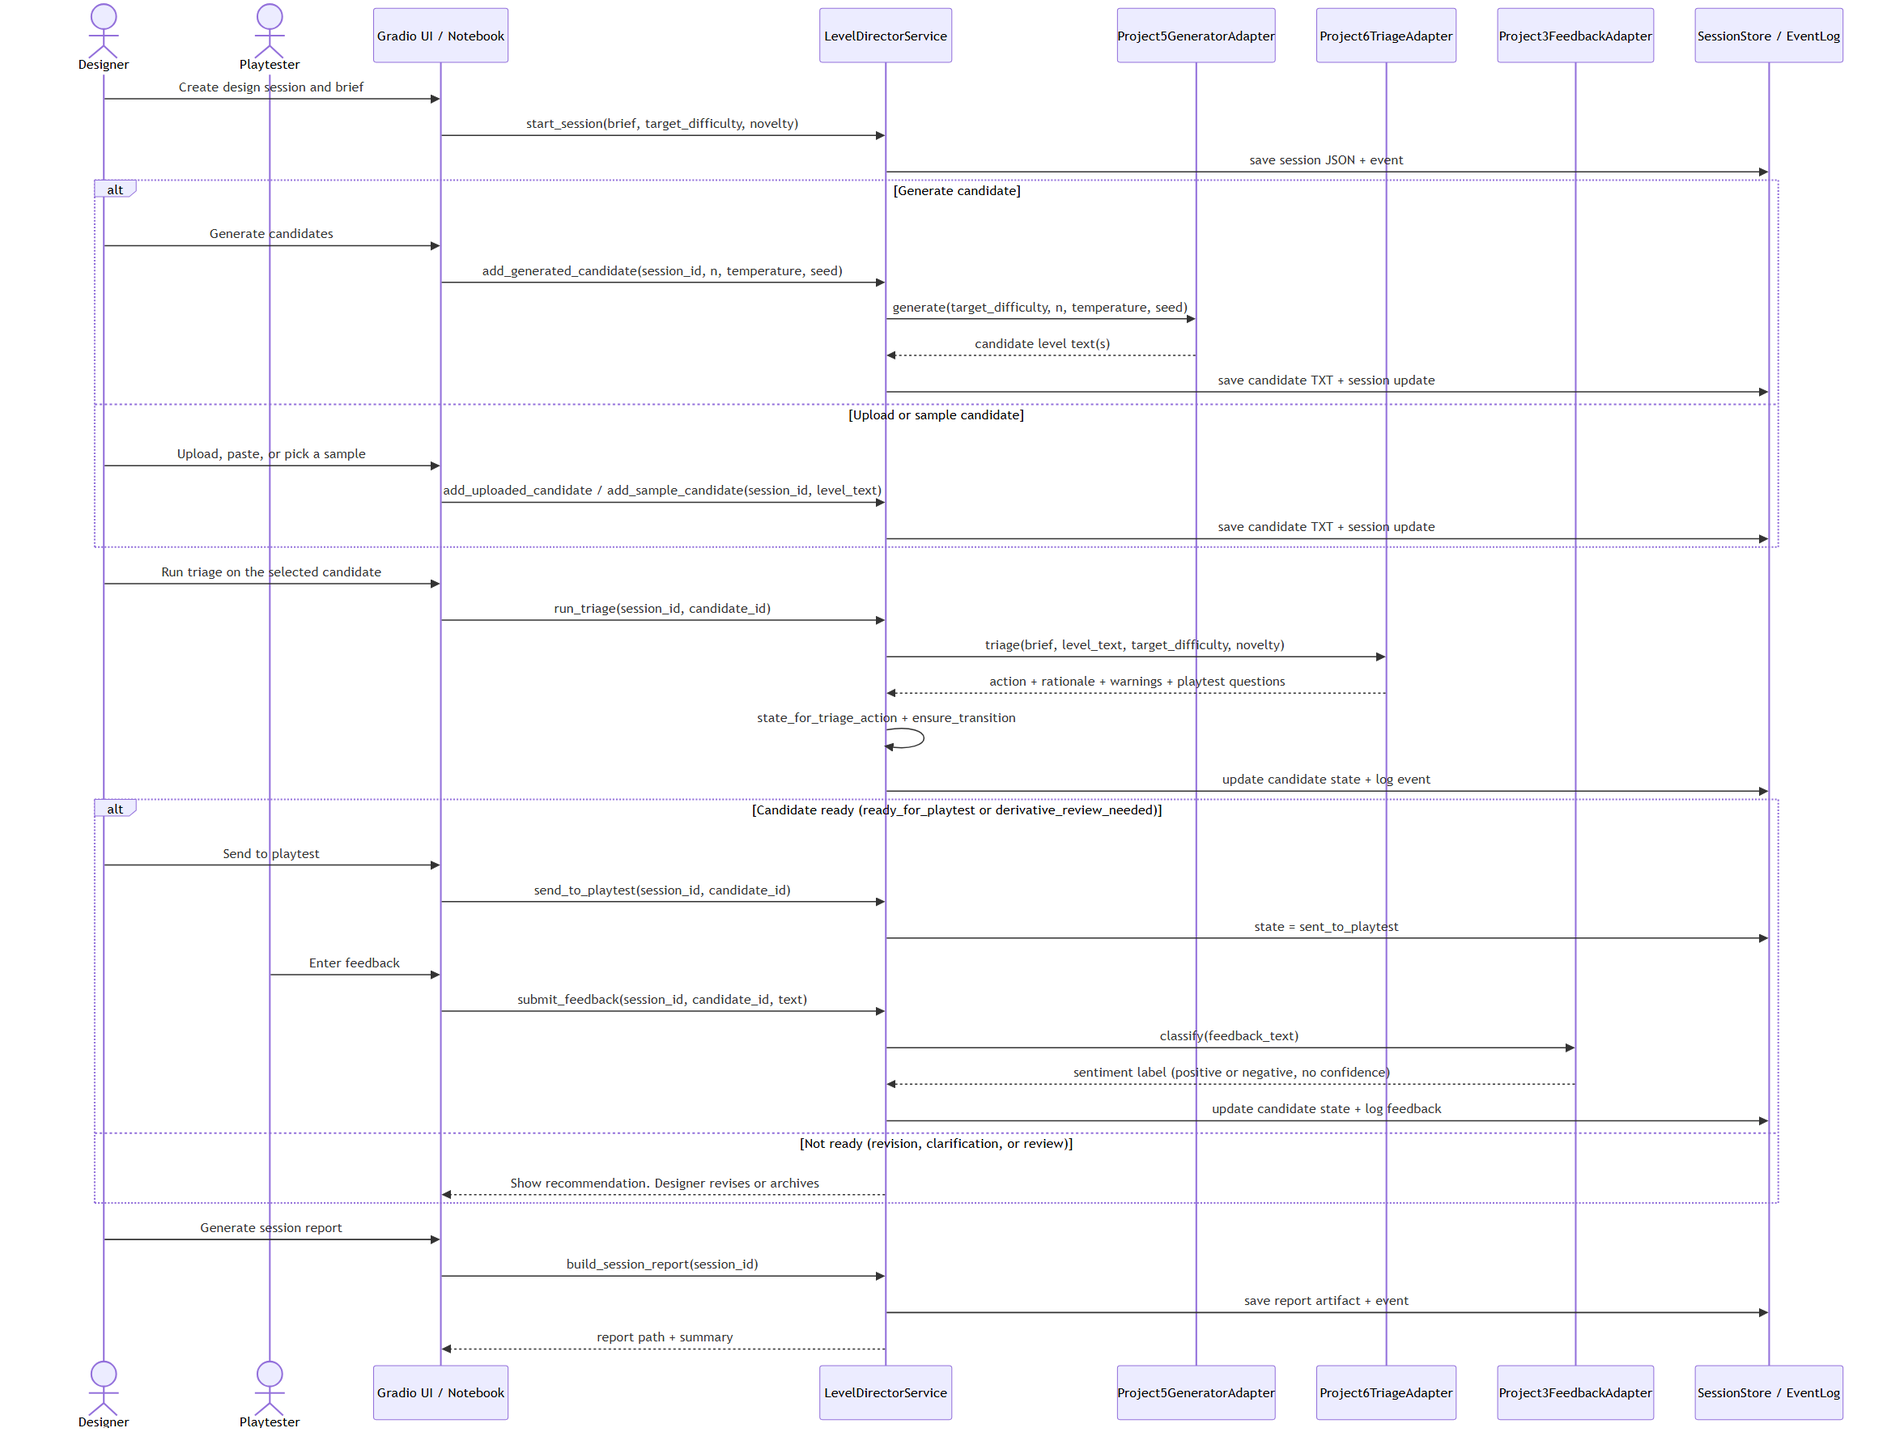
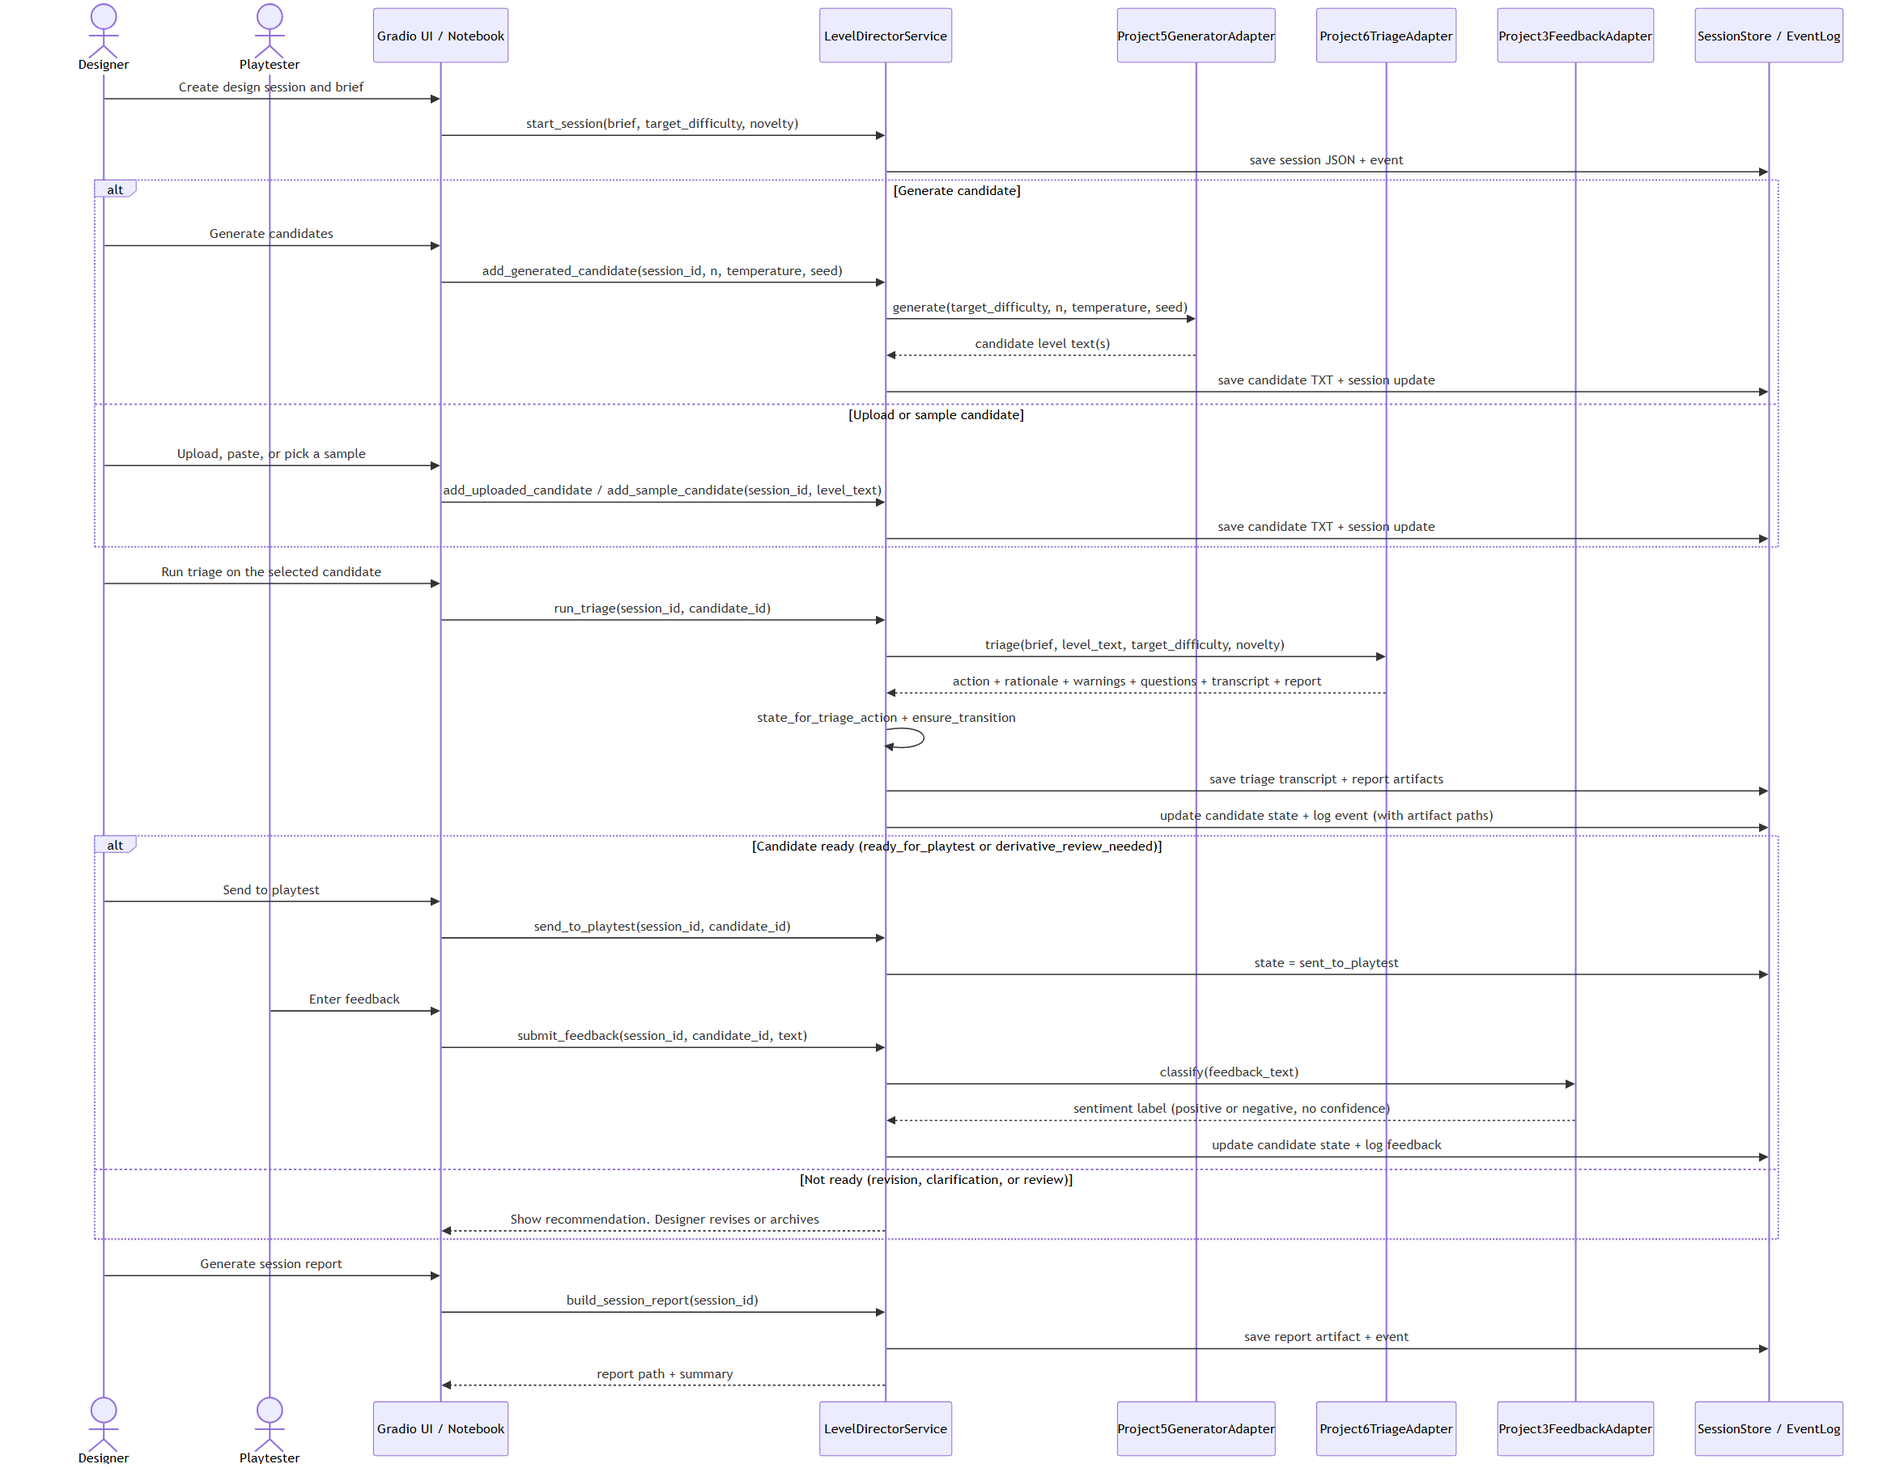
Persist triage deliberation transcript and report as auditable artifacts
Each triage run now saves the agent's full deliberation transcript and a
designer facing report to their own files under outputs/triage_transcripts/
and outputs/triage_reports/, and the triaged event records both paths, so any
recommendation can be audited. The adapter renders them with Project 6's own
formatters; rendered text rides on excluded TriageResult fields so the session
snapshot is not bloated. Surface both artifacts in the Candidate Detail tab with
inline view and download. Update the end to end sequence diagram and add tests.

diff --git a/src/ai_level_director/workflow/service.py b/src/ai_level_director/workflow/service.py
@@ -22,7 +22,12 @@ from ai_level_director.adapters.interfaces import (
     TriageAdapter,
 )
 from ai_level_director.domain.events import CandidateEvent
-from ai_level_director.domain.models import DesignSession, LevelCandidate, PlaytestRecord
+from ai_level_director.domain.models import (
+    DesignSession,
+    LevelCandidate,
+    PlaytestRecord,
+    TriageResult,
+)
 from ai_level_director.storage import paths
 from ai_level_director.storage.session_store import SessionStore
 from ai_level_director.reporting.report_builder import build_session_report
@@ -184,14 +189,21 @@ class LevelDirectorService:
         new_state = state_for_triage_action(result.action)
         ensure_transition(candidate.workflow_state, new_state)
 
+        self._save_triage_artifacts(session.session_id, candidate, result)
         candidate.triage_result = result
+
+        payload = {"action": result.action, "readiness": result.readiness}
+        if result.transcript_path:
+            payload["transcript_path"] = result.transcript_path
+        if result.report_path:
+            payload["report_path"] = result.report_path
         event = self._record_state_change(
             session,
             candidate,
             new_state,
             event_type="triaged",
             summary=f"Triaged: {result.action} -> {new_state}.",
-            payload={"action": result.action, "readiness": result.readiness},
+            payload=payload,
         )
         self._persist(session, event)
         return session
@@ -327,6 +339,32 @@ class LevelDirectorService:
         return target
 
     # Internal helpers -----------------------------------------------------
+
+    def _save_triage_artifacts(
+        self, session_id: str, candidate: LevelCandidate, result: TriageResult
+    ) -> None:
+        """Persist the triage transcript and report, recording their paths on the result.
+
+        The agent's full deliberation is written to its own file so any triage
+        recommendation can be audited later. The iteration number is the count of
+        prior triage runs on this candidate plus one, so repeated runs each leave a
+        separate transcript instead of overwriting one another.
+        """
+        iteration = sum(1 for e in candidate.history if e.event_type == "triaged") + 1
+        if result.transcript_text:
+            target = paths.triage_transcript_path(
+                session_id, candidate.candidate_id, iteration, self.output_root
+            )
+            target.parent.mkdir(parents=True, exist_ok=True)
+            target.write_text(result.transcript_text, encoding="utf-8")
+            result.transcript_path = str(target)
+        if result.report_text:
+            target = paths.triage_report_path(
+                session_id, candidate.candidate_id, iteration, self.output_root
+            )
+            target.parent.mkdir(parents=True, exist_ok=True)
+            target.write_text(result.report_text, encoding="utf-8")
+            result.report_path = str(target)
 
     def _get_candidate(self, session: DesignSession, candidate_id: str) -> LevelCandidate:
         """Return the named candidate or raise if it is not in the session."""

diff --git a/tests/test_mock_workflow.py b/tests/test_mock_workflow.py
@@ -8,6 +8,8 @@ state machine, not model behavior.
 
 from __future__ import annotations
 
+from pathlib import Path
+
 import pytest
 
 from ai_level_director.adapters.mocks import MockFeedbackAdapter, MockTriageAdapter
@@ -110,6 +112,45 @@ def test_empty_feedback_routes_to_human_review(tmp_path):
     candidate = session.candidates[0]
     assert candidate.workflow_state == "human_review_needed"
     assert candidate.feedback_records == []  # nothing was classified
+
+
+def test_triage_persists_transcript_and_report(tmp_path):
+    service = make_service(tmp_path, action="accept_for_playtest")
+    seeded_session(service)
+    session = service.run_triage("S1", "U-001")
+
+    result = session.candidates[0].triage_result
+    # Paths are recorded and the artifacts exist on disk.
+    assert result.transcript_path is not None
+    assert result.report_path is not None
+    transcript = Path(result.transcript_path)
+    report = Path(result.report_path)
+    assert transcript.is_file() and transcript.read_text(encoding="utf-8").strip()
+    assert report.is_file() and report.read_text(encoding="utf-8").strip()
+
+    # The triaged event indexes the transcript so the audit trail links to it.
+    triaged = [e for e in service.store.read_events("S1") if e.event_type == "triaged"][0]
+    assert triaged.payload["transcript_path"] == result.transcript_path
+    assert triaged.payload["report_path"] == result.report_path
+
+    # The full transcript text is not bloated into the session snapshot; only the
+    # path persists, and the saved file is the record.
+    reloaded = service.load_session("S1").candidates[0].triage_result
+    assert reloaded.transcript_path == result.transcript_path
+    assert reloaded.transcript_text is None
+
+
+def test_repeated_triage_writes_separate_transcripts(tmp_path):
+    # A revision returns to draft, so the parent and its revision each triage and
+    # must not overwrite each other's transcript.
+    service = make_service(tmp_path, action="recommend_revision")
+    seeded_session(service)
+    service.run_triage("S1", "U-001")  # U-001 -> revision_needed
+    service.create_revised_candidate("S1", "U-001", LEVEL)
+    session = service.run_triage("S1", "R-001")
+
+    paths_seen = {c.triage_result.transcript_path for c in session.candidates if c.triage_result}
+    assert len(paths_seen) == 2  # distinct transcript files
 
 
 def test_full_happy_path_event_log(tmp_path):

diff --git a/src/ai_level_director/adapters/project6_triage.py b/src/ai_level_director/adapters/project6_triage.py
@@ -60,7 +60,9 @@ def map_session_to_result(session) -> TriageResult:
     The final action is the session decision (post safety floor), falling back to
     the recommendation's action. Revision edits and the prescription playtest
     question are flattened into the result's lists. The full Project 6 session is
-    kept in ``raw_payload`` (minus the bulky transcript) for auditing.
+    kept in ``raw_payload`` (minus the bulky transcript) for auditing. This stays a
+    pure field mapping; the deliberation transcript and report are rendered in the
+    adapter's ``triage`` method, where Project 6 is on the path.
     """
     recommendation = session.recommendation
     prescription = recommendation.prescription if recommendation else None
@@ -83,6 +85,20 @@ def map_session_to_result(session) -> TriageResult:
         playtest_questions=playtest_questions,
         raw_payload=session.model_dump(mode="json", exclude={"transcript"}),
     )
+
+
+def _render_artifacts(session) -> tuple[str | None, str | None]:
+    """Render the deliberation transcript and designer report from a triage session.
+
+    These are supplementary observability artifacts. A rendering failure returns
+    ``None`` so the triage decision itself is never lost to a reporting problem.
+    """
+    try:
+        from src.report import format_transcript, generate_report  # vendored Project 6
+
+        return format_transcript(session), generate_report(session)
+    except Exception:
+        return None, None
 
 
 class Project6TriageAdapter:
@@ -127,7 +143,10 @@ class Project6TriageAdapter:
         """
         brief = self._augment_brief(design_brief, target_difficulty, novelty_preference)
         request = self._TriageRequest(brief_text=brief, candidate_level=level_text)
-        return map_session_to_result(self._run_pass(request))
+        session = self._run_pass(request)
+        result = map_session_to_result(session)
+        result.transcript_text, result.report_text = _render_artifacts(session)
+        return result
 
     def _run_pass(self, request):
         """Run the Project 6 triage pass, off thread if an event loop is running.

diff --git a/src/ai_level_director/ui/callbacks.py b/src/ai_level_director/ui/callbacks.py
@@ -193,6 +193,38 @@ def candidate_detail(service, session_id, candidate_id) -> dict:
     return candidate_detail_view(session, candidate_id)
 
 
+def _read_artifact(path: str | None) -> str:
+    """Read a saved text artifact for display, returning '' if it is missing."""
+    if not path:
+        return ""
+    target = Path(path)
+    return target.read_text(encoding="utf-8") if target.is_file() else ""
+
+
+def triage_artifacts(service, session_id, candidate_id) -> dict:
+    """Return the saved triage report and deliberation transcript for a candidate.
+
+    Reads the artifacts the triage run persisted so the Candidate Detail view can
+    display them and offer them for download. Paths are returned only when the file
+    exists, and texts are empty when a candidate has not been triaged. This is how a
+    reviewer inspects the reasoning behind a triage recommendation.
+    """
+    empty = {"report_text": "", "report_path": None, "transcript_text": "", "transcript_path": None}
+    if not session_id or not candidate_id:
+        return empty
+    session = service.load_session(session_id)
+    candidate = next((c for c in session.candidates if c.candidate_id == candidate_id), None)
+    if candidate is None or candidate.triage_result is None:
+        return empty
+    result = candidate.triage_result
+    return {
+        "report_text": _read_artifact(result.report_path),
+        "report_path": result.report_path if _read_artifact(result.report_path) else None,
+        "transcript_text": _read_artifact(result.transcript_path),
+        "transcript_path": result.transcript_path if _read_artifact(result.transcript_path) else None,
+    }
+
+
 def build_report(service, session_id):
     """Generate the session report and return its text and downloadable paths."""
     if not session_id:

diff --git a/app.py b/app.py
@@ -245,6 +245,17 @@ def build_app() -> gr.Blocks:
 
                 candidate = find_candidate(session, cid) if cid else None
                 if candidate:
+                    arts = cb.triage_artifacts(_get_service(eng), sid, cid)
+                    if arts["report_path"] or arts["transcript_path"]:
+                        gr.Markdown("### Triage deliberation and report")
+                        if arts["report_path"]:
+                            with gr.Accordion("Triage report", open=False):
+                                gr.Markdown(arts["report_text"])
+                                gr.File(value=arts["report_path"], label="Download report (.md)", interactive=False)
+                        if arts["transcript_path"]:
+                            with gr.Accordion("Agent deliberation transcript", open=False):
+                                gr.Code(arts["transcript_text"], label="Transcript")
+                                gr.File(value=arts["transcript_path"], label="Download transcript (.md)", interactive=False)
                     if candidate.level_path:
                         gr.File(value=candidate.level_path, label="Download level text", interactive=False)
                     gr.Markdown("### Create a revised candidate")

diff --git a/tests/test_callbacks.py b/tests/test_callbacks.py
@@ -63,6 +63,27 @@ def test_generate_then_triage(tmp_path):
     assert state == "ready_for_playtest"
 
 
+def test_triage_artifacts_returns_saved_files(tmp_path):
+    service = make_service(tmp_path)
+    sid, *_ = cb.start_session(service, "brief", "easy", "")
+    cb.upload_candidate(service, sid, LEVEL, "L")
+    cb.run_triage(service, sid, "U-001")
+
+    arts = cb.triage_artifacts(service, sid, "U-001")
+    assert arts["transcript_path"] and arts["transcript_text"]
+    assert arts["report_path"] and arts["report_text"]
+
+
+def test_triage_artifacts_empty_before_triage(tmp_path):
+    service = make_service(tmp_path)
+    sid, *_ = cb.start_session(service, "brief", "easy", "")
+    cb.upload_candidate(service, sid, LEVEL, "L")
+
+    arts = cb.triage_artifacts(service, sid, "U-001")
+    assert arts["transcript_path"] is None and arts["transcript_text"] == ""
+    assert arts["report_path"] is None
+
+
 def test_full_loop_to_complete(tmp_path):
     service = make_service(tmp_path, action="accept_for_playtest")
     sid, *_ = cb.start_session(service, "brief", "easy", "")

diff --git a/src/ai_level_director/storage/paths.py b/src/ai_level_director/storage/paths.py
@@ -35,3 +35,21 @@ def rendered_preview_path(session_id: str, candidate_id: str, root: Path = DEFAU
 def report_path(session_id: str, root: Path = DEFAULT_OUTPUT_ROOT) -> Path:
     """Return the path to a session's Markdown report."""
     return root / "reports" / f"{session_id}_report.md"
+
+
+def triage_transcript_path(
+    session_id: str, candidate_id: str, iteration: int, root: Path = DEFAULT_OUTPUT_ROOT
+) -> Path:
+    """Return the path to a triage run's full deliberation transcript.
+
+    The iteration number keeps repeated triage runs on the same candidate from
+    overwriting each other, so every pass leaves its own auditable transcript.
+    """
+    return root / "triage_transcripts" / session_id / f"{candidate_id}-r{iteration}.md"
+
+
+def triage_report_path(
+    session_id: str, candidate_id: str, iteration: int, root: Path = DEFAULT_OUTPUT_ROOT
+) -> Path:
+    """Return the path to a triage run's designer facing report."""
+    return root / "triage_reports" / session_id / f"{candidate_id}-r{iteration}.md"

diff --git a/src/ai_level_director/domain/models.py b/src/ai_level_director/domain/models.py
@@ -37,6 +37,13 @@ class TriageResult(BaseModel):
     report_path: str | None = None
     raw_payload: dict = Field(default_factory=dict)
 
+    # Rendered deliberation text carried from the adapter to the service, which
+    # writes it to a file and records the path above. Excluded from serialization
+    # so the full transcript never bloats the session JSON snapshot; the saved file
+    # is the persistent record.
+    transcript_text: str | None = Field(default=None, exclude=True)
+    report_text: str | None = Field(default=None, exclude=True)
+
 
 class FeedbackResult(BaseModel):
     """Normalized result of a Project 3 feedback classification.

diff --git a/src/ai_level_director/adapters/mocks.py b/src/ai_level_director/adapters/mocks.py
@@ -63,6 +63,14 @@ class MockTriageAdapter:
             ),
             playtest_questions=["(mock) Does the first jump feel fair?"],
             raw_payload={"mock": True, "action": self.action},
+            transcript_text=(
+                f"# Triage Transcript (mock)\n\nDeterministic transcript for action "
+                f"'{self.action}'.\n"
+            ),
+            report_text=(
+                f"# Triage Report (mock)\n\nDeterministic report for action "
+                f"'{self.action}'.\n"
+            ),
         )
 
 

diff --git a/docs/architecture/03_end_to_end_sequence.md b/docs/architecture/03_end_to_end_sequence.md
@@ -35,9 +35,10 @@ sequenceDiagram
     D->>UI: Run triage on the selected candidate
     UI->>S: run_triage(session_id, candidate_id)
     S->>P6: triage(brief, level_text, target_difficulty, novelty)
-    P6-->>S: action + rationale + warnings + playtest questions
+    P6-->>S: action + rationale + warnings + questions + transcript + report
     S->>S: state_for_triage_action + ensure_transition
-    S->>Store: update candidate state + log event
+    S->>Store: save triage transcript + report artifacts
+    S->>Store: update candidate state + log event (with artifact paths)
 
     alt Candidate ready (ready_for_playtest or derivative_review_needed)
         D->>UI: Send to playtest
@@ -67,3 +68,7 @@ sequenceDiagram
   classifier.
 - Triage and feedback are reached only through adapters, so the same sequence runs
   against mock adapters or the real prior projects without changing the service.
+- Each triage run also persists the agent's full deliberation transcript and a designer
+  facing report as their own files, and the `triaged` event records their paths. The
+  event log stays a scannable audit index that links to the full reasoning behind every
+  triage recommendation.

diff --git a/docs/architecture/README.md b/docs/architecture/README.md
@@ -26,6 +26,11 @@ implementation in `src/ai_level_director/`.
   candidate state machine it delegates to.
 - Project 6 remains the single candidate triage authority. Its validity, difficulty,
   novelty, and pacing reasoning is not duplicated anywhere in Project 7.
+- Each triage run persists the agent's full deliberation transcript and a designer
+  facing report to their own files, and the `triaged` event records the paths, so any
+  recommendation can be audited. This is Project 6 specific; the single shot generator
+  and classifier are observable through provenance (parameters, label, model name)
+  rather than a transcript.
 - Project 3 runs only after a candidate is sent to playtest. It returns a sentiment
   label only, positive or negative, with no probability or confidence score.
 - Project 5 provides candidate drafts, not final production ready content. Its
